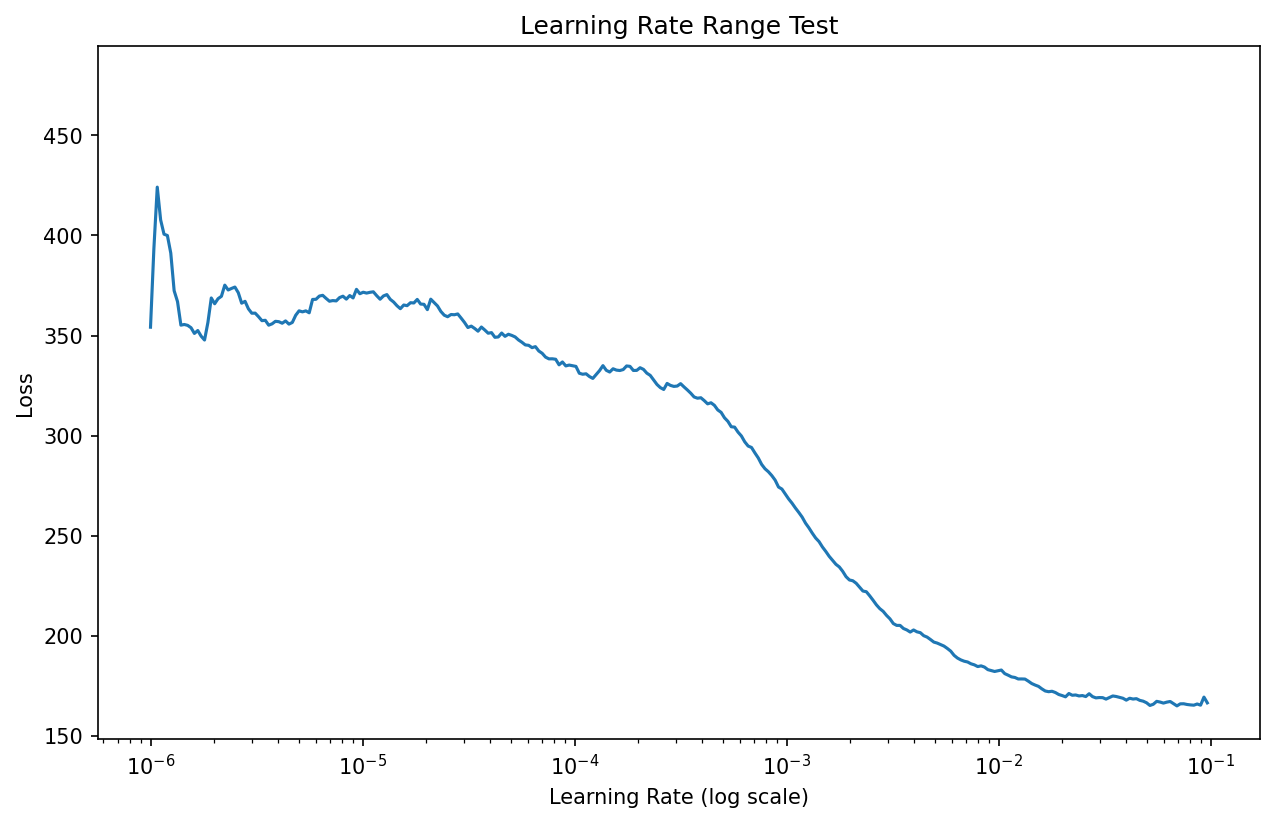
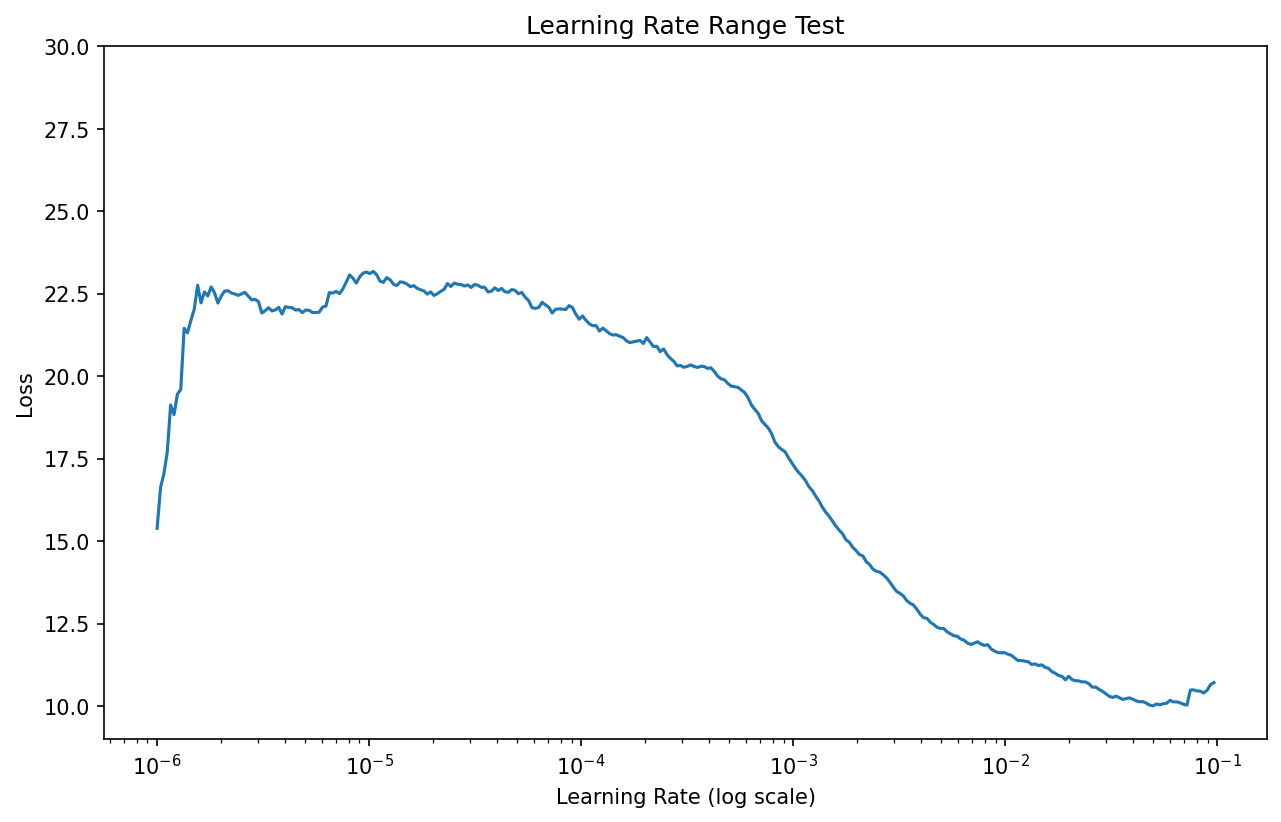
fix(train): improve YOLOv1 training stability

diff --git a/loss/yolo_loss.py b/loss/yolo_loss.py
@@ -63,7 +63,13 @@ class YoloLoss(nn.Module):
     obj_conf_loss = torch.sum((obj_conf_pred - obj_mask.float()) ** 2)
 
     #noobj confidence Loss
-    noobj_conf_loss = self.lambda_noobj * torch.sum(noobj_mask.unsqueeze(-1).float() * torch.stack([bbox1_pred[..., 4], bbox2_pred[..., 4]], dim=-1) ** 2)
+    bbox1_noobj_mask = noobj_mask | bbox2_responsible
+    bbox2_noobj_mask = noobj_mask | bbox1_responsible
+
+    bbox1_noobj_conf_loss = torch.sum(bbox1_noobj_mask.float() * bbox1_pred[..., 4] ** 2)
+    bbox2_noobj_conf_loss = torch.sum(bbox2_noobj_mask.float() * bbox2_pred[..., 4] ** 2)
+
+    noobj_conf_loss = bbox1_noobj_conf_loss + bbox2_noobj_conf_loss
      
     #class Loss
     class_loss = torch.sum(obj_mask.unsqueeze(-1).float() * (class_pred - class_target) ** 2)
@@ -71,4 +77,4 @@ class YoloLoss(nn.Module):
     #total Loss
     total_loss = coord_loss + obj_conf_loss + noobj_conf_loss +class_loss
 
-    return total_loss
+    return total_loss / predictions.size(0)

diff --git a/train.py b/train.py
@@ -16,7 +16,9 @@ from loss.yolo_loss import YoloLoss
 #学习率
 def get_lr(epoch):
   if epoch <= 10:
-    return 1e-4      
+    start_lr = 1e-4
+    end_lr = 1e-3
+    return start_lr + (end_lr - start_lr) * (epoch - 1) / 10    
   elif epoch <= 125:
     return 1e-3      
   elif epoch <= 155:
@@ -42,7 +44,7 @@ def train_one_epoch(model, loader, optimizer, loss_fn, device, batch_log_file):
     predictions = model(images)
     loss = loss_fn(predictions, targets)
     loss.backward()
-    torch.nn.utils.clip_grad_norm_(model.parameters(), max_norm=10.0)
+    torch.nn.utils.clip_grad_norm_(model.parameters(), max_norm=50.0)
     optimizer.step()
     
     total_loss += loss.item()
